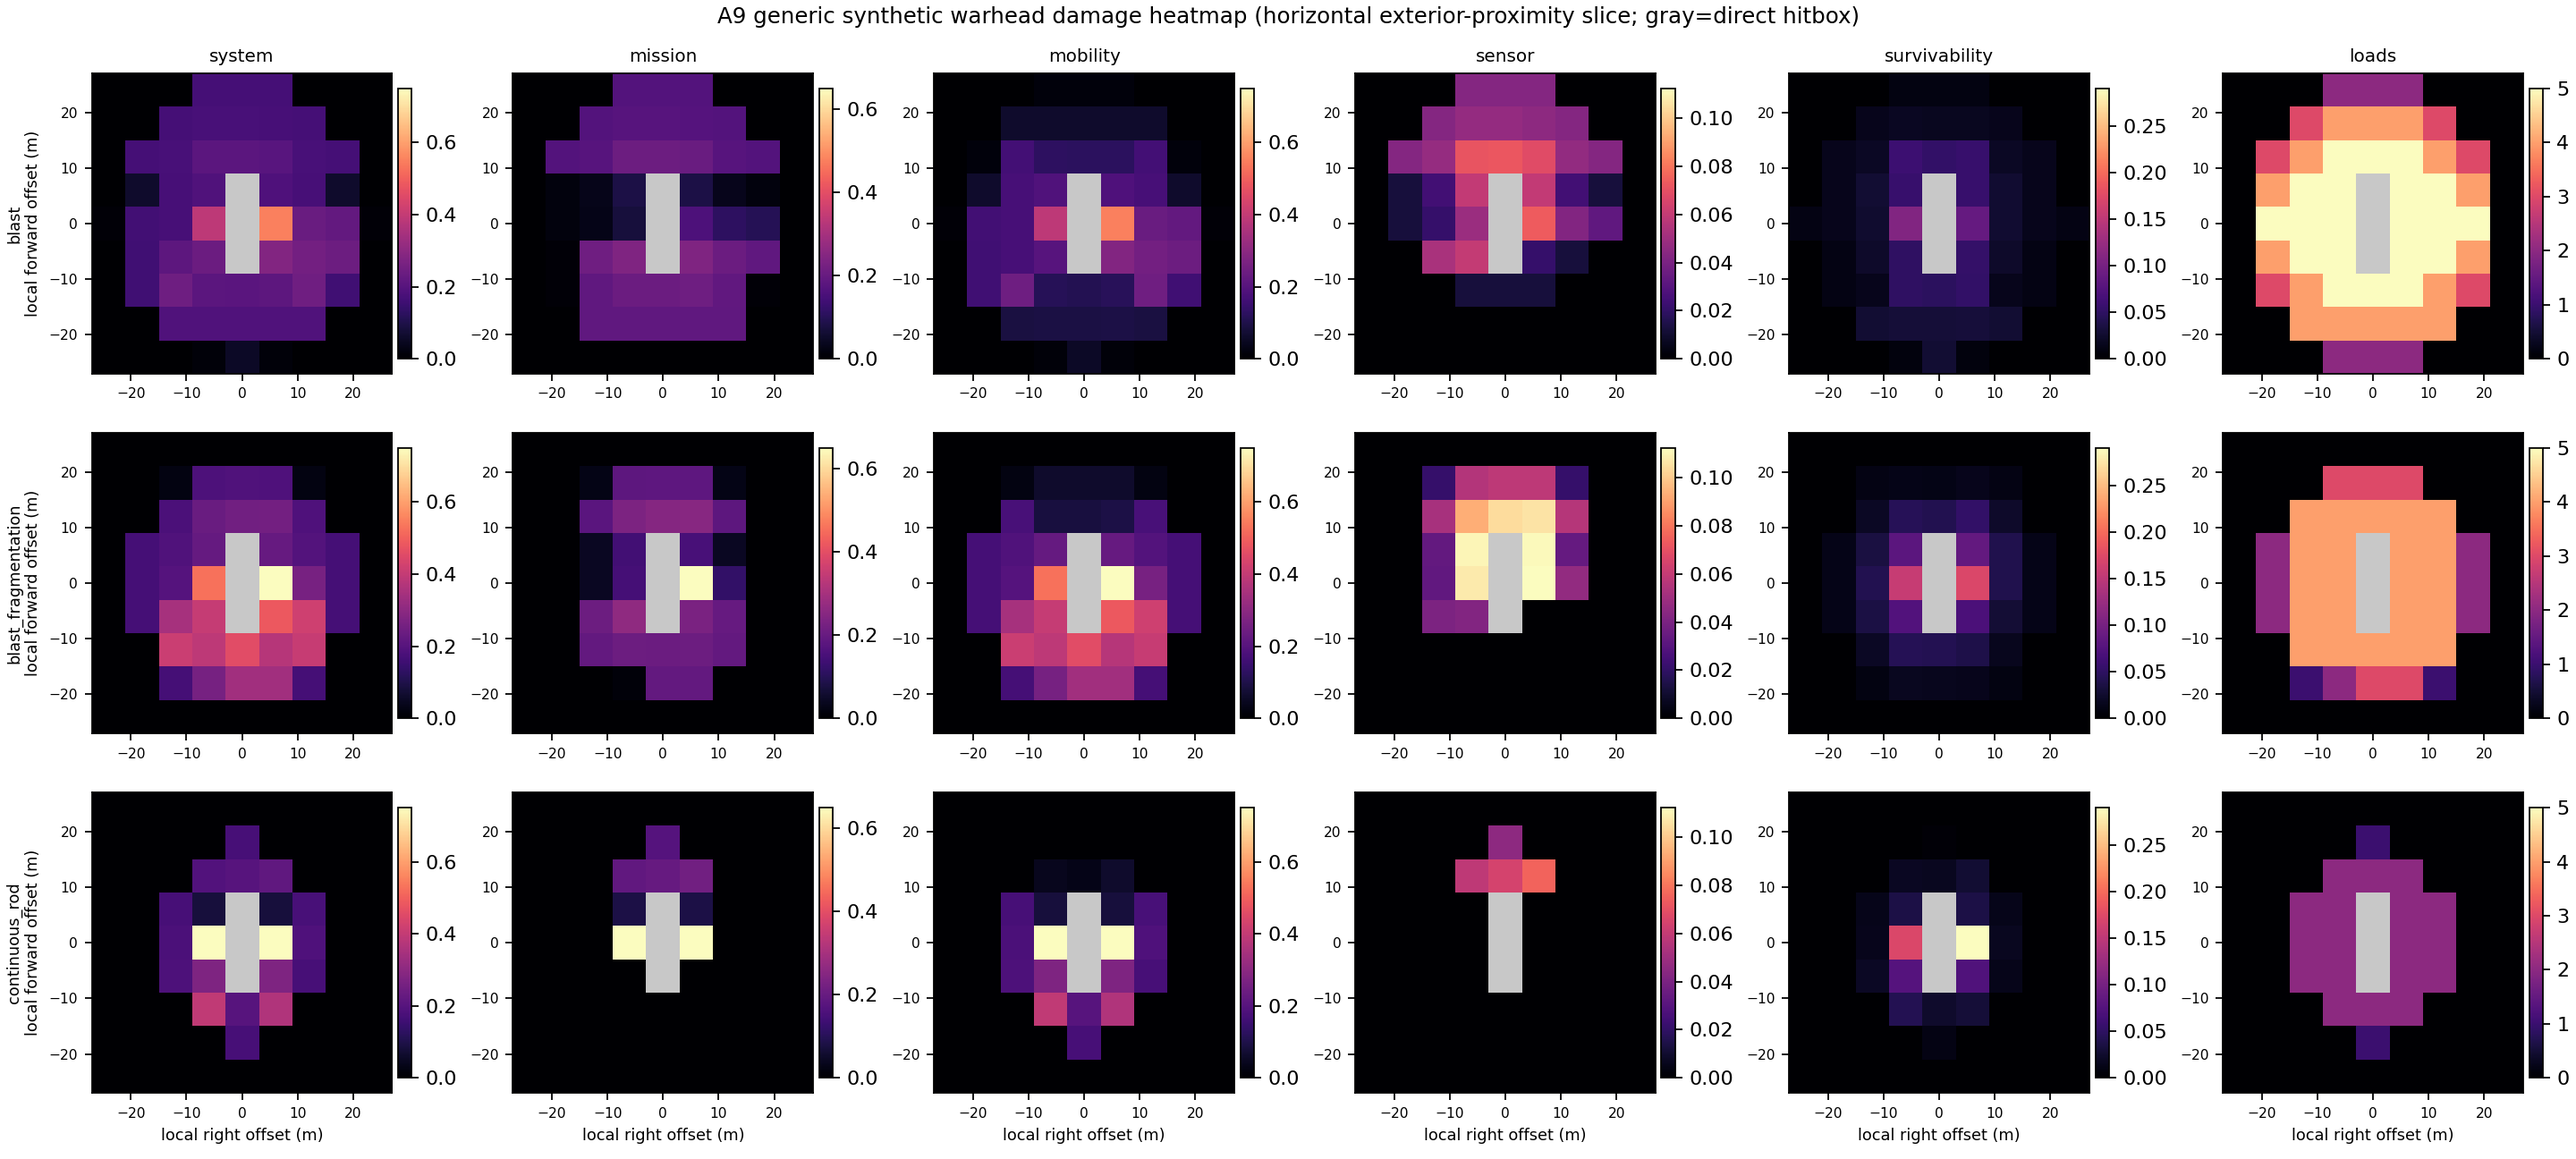
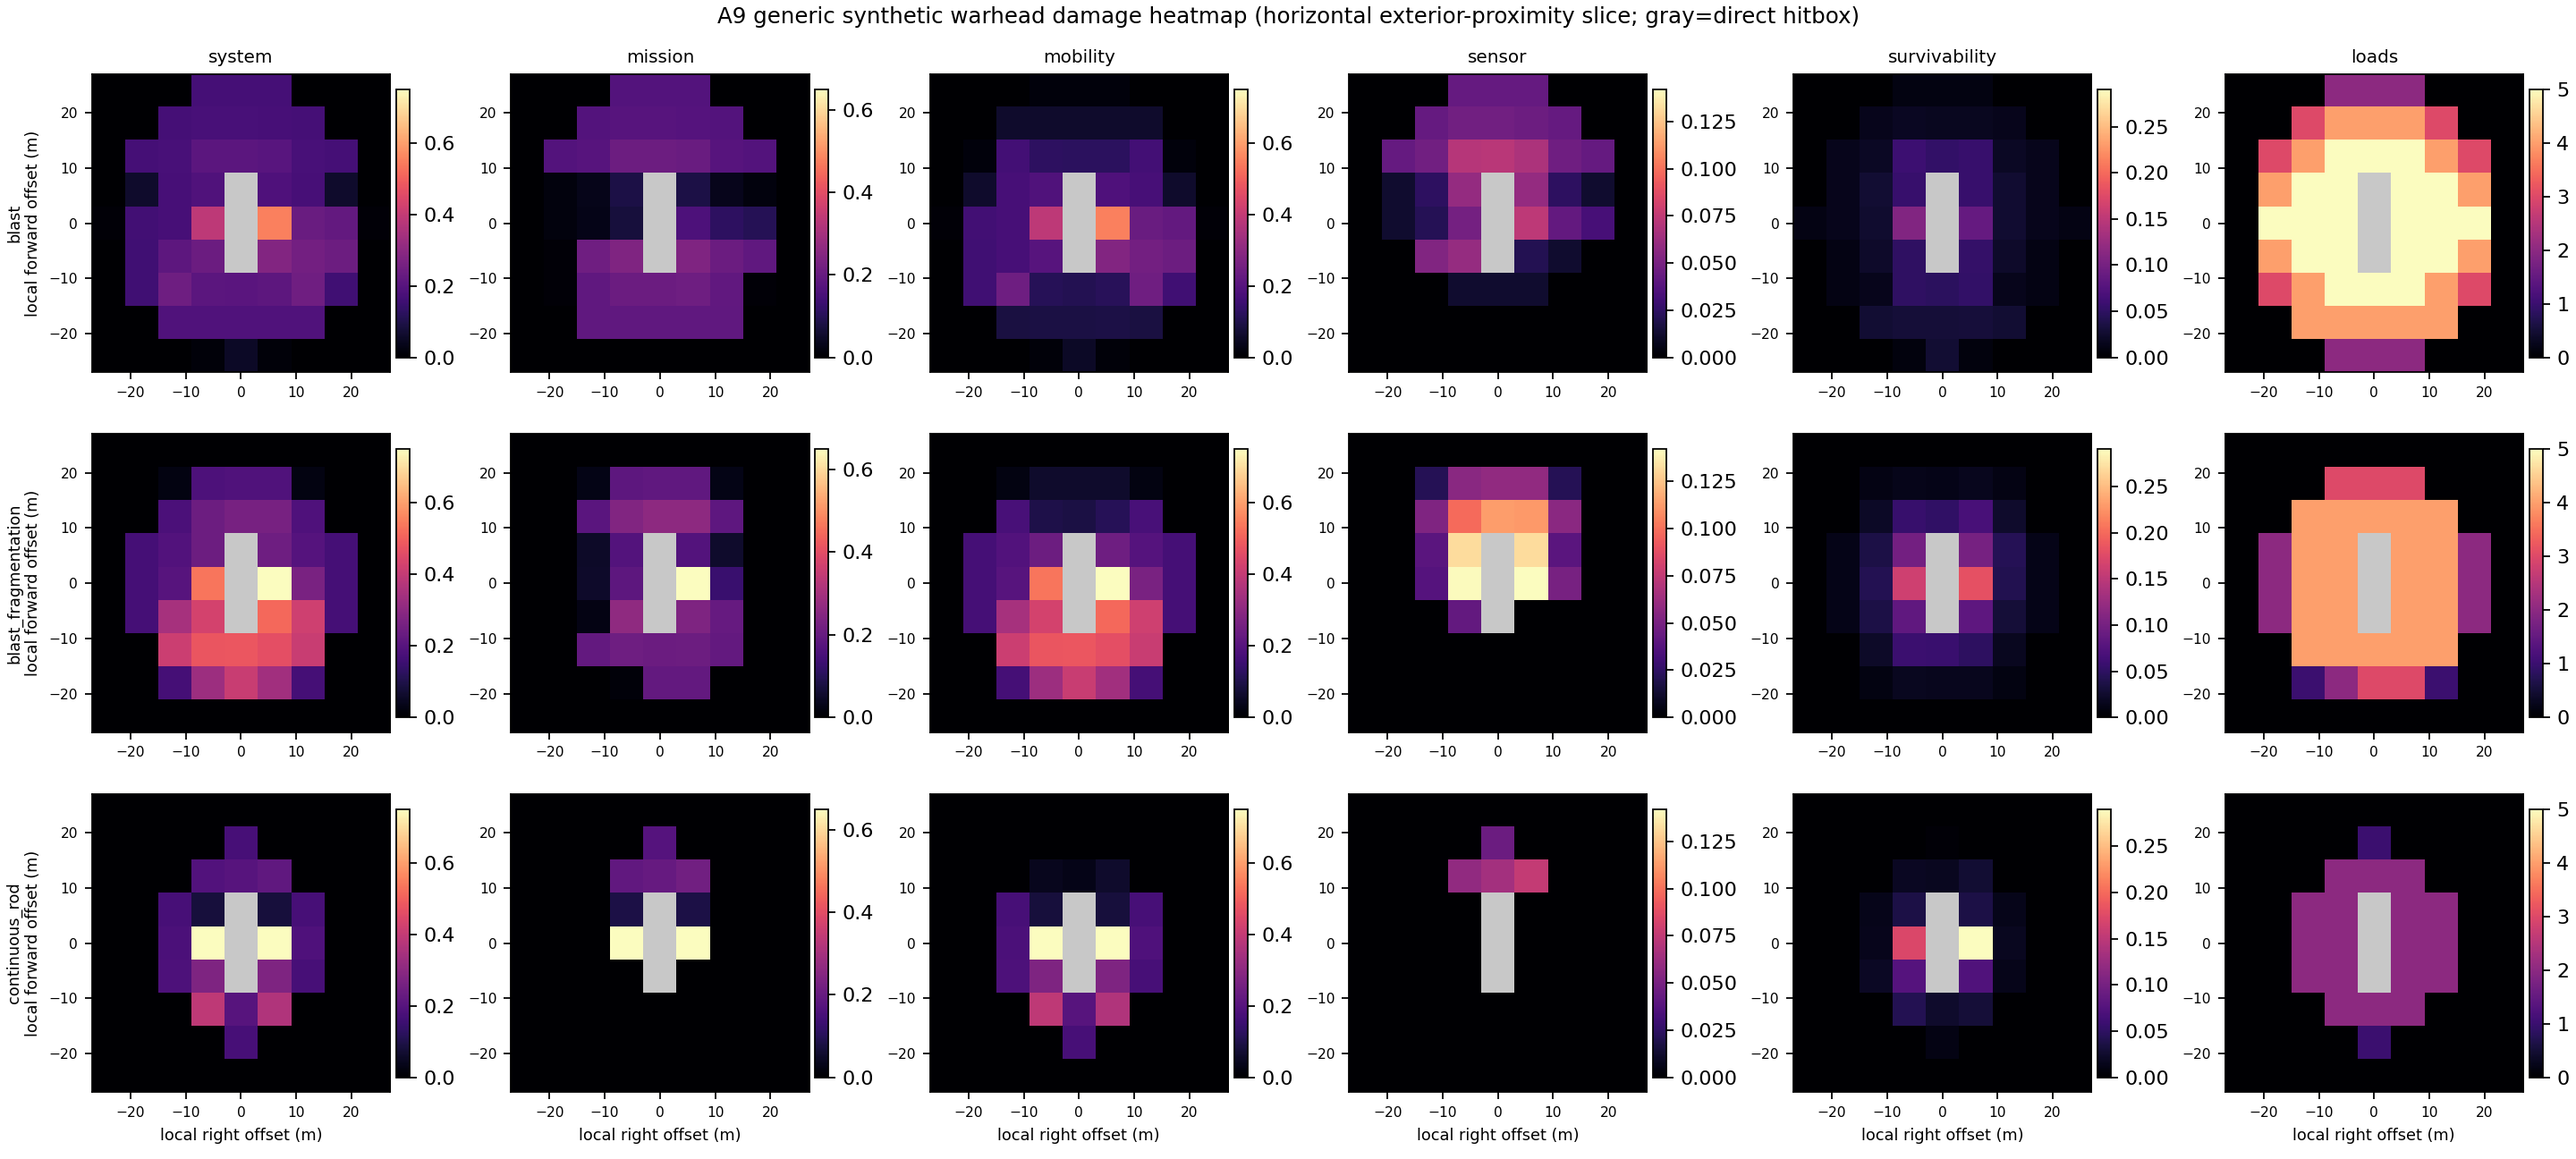
fix(a9): honor warhead fragment profile in heatmaps

diff --git a/docs/task/air_combat/a9_high_fidelity_weapon_system/p4_validation/warhead_detonation_heatmap_20260617.py b/docs/task/air_combat/a9_high_fidelity_weapon_system/p4_validation/warhead_detonation_heatmap_20260617.py
@@ -1,11 +1,11 @@
 """A9 warhead detonation-point heatmap sweep.
 
-This script compares generic synthetic warhead families across fixed local
-detonation points around a structured F-16 target. Heatmaps mask direct-hitbox
-intersection points because those are direct impact/interior proxies, not valid
-exterior proximity-fuze detonation points. This is a validation artifact for
-directional behavior only: the profile values are not real-weapon calibration
-and should not be read as Pk.
+This script compares generic synthetic physics-profile warhead families across
+fixed local detonation points around a structured F-16 target. Heatmaps mask
+direct-hitbox intersection points because those are direct impact/interior
+proxies, not valid exterior proximity-fuze detonation points. This is a
+validation artifact for directional behavior only: the profile values are not
+real-weapon calibration and should not be read as Pk.
 
 Run:
   PYTHONPATH=build python docs/task/air_combat/a9_high_fidelity_weapon_system/p4_validation/warhead_detonation_heatmap_20260617.py
@@ -90,9 +90,14 @@ def _make_profile(family: str) -> object:
   profile.mass_kg = 12.0
   profile.lethal_radius_m = 35.0
   profile.damage_scalar = 90.0
+  profile.explosive_mass_kg = 5.5
+  profile.case_mass_kg = 6.5
+  profile.gurney_constant_mps = 2400.0
+  profile.fragment_count = 900.0
+  profile.fragment_mass_kg = 0.0026
   profile.synthetic = True
   profile.damage_scalar_synthetic = True
-  profile.provenance = "a9_heatmap_generic_research"
+  profile.provenance = "a9_heatmap_generic_physics_research"
   return profile
 
 

diff --git a/docs/task/air_combat/a9_high_fidelity_weapon_system/p4_validation/warhead_detonation_heatmap_20260617.md b/docs/task/air_combat/a9_high_fidelity_weapon_system/p4_validation/warhead_detonation_heatmap_20260617.md
@@ -3,16 +3,20 @@
 ## Purpose
 
 This validation sweep observes how the current proximity-detonation damage
-chain responds to different target-local detonation points and generic warhead
-families. It uses the existing debug entry point
+chain responds to different target-local detonation points and generic
+physics-profile warhead families. It uses the existing debug entry point
 `debug_apply_profiled_local_proximity_hit_with_velocity`, then records the
 standard effects, warhead mechanism, component load, component damage, and
 platform consequence events.
 
-Scope boundary: all warhead profiles are generic synthetic research profiles
-with `mass_kg=12`, `lethal_radius_m=35`, and `damage_scalar=90`. The result is
-directional validation of the current model shape, not real-weapon calibration,
-Pk evidence, entity-deletion evidence, or strict lethality authority.
+Scope boundary: all warhead profiles are generic synthetic research profiles.
+They use `mass_kg=12`, `lethal_radius_m=35`, `damage_scalar=90`,
+`explosive_mass_kg=5.5`, `case_mass_kg=6.5`,
+`gurney_constant_mps=2400`, `fragment_count=900`, and
+`fragment_mass_kg=0.0026`. These values are generic order-of-magnitude inputs
+for exercising the opt-in Gurney/fragment-decay/rod-cap path, not real-weapon
+calibration, Pk evidence, entity-deletion evidence, or strict lethality
+authority.
 
 ## Sweep Setup
 
@@ -76,3 +80,22 @@ from sampling a missile detonation inside the aircraft body.
 The same results also preserve the earlier fidelity boundary. They do not prove
 realistic kill probability or calibrated weapon effects because the vulnerability
 and warhead profile are still generic synthetic assumptions.
+
+## Calibration Note
+
+This update calibrates the validation artifact by exercising the opt-in
+physics-profile path instead of relying only on legacy synthetic mass scaling:
+fragment count, fragment mass, explosive mass, casing mass, and Gurney constant
+are now present in the swept profile. The implementation also honors authored
+`fragment_count` and `fragment_mass_kg` when estimating fragmentation loads and
+sampling spatial effects.
+
+The remaining `blast_fragmentation` cutoff near the outer standoff cells is not
+evidence that the real effect radius should be that sharp. It comes from the
+current spatial-projection gate, which projects only a bounded inner fraction of
+the authored lethal radius. A simple projection-radius expansion was checked and
+rejected because it weakened existing near-miss probability guardrails while
+creating an overly strong far-tail system-damage artifact. The next calibration
+step should therefore separate weak residual load, component-failure
+probability, and platform-level system damage instead of only increasing the
+projection radius.
